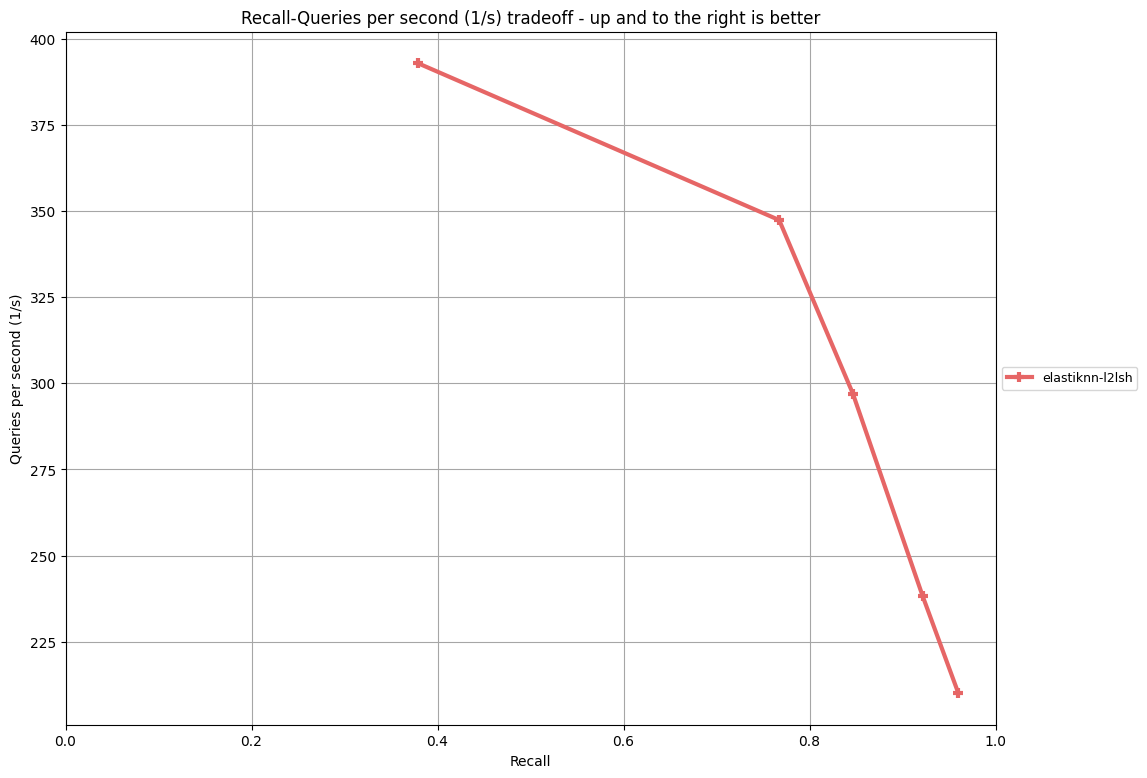
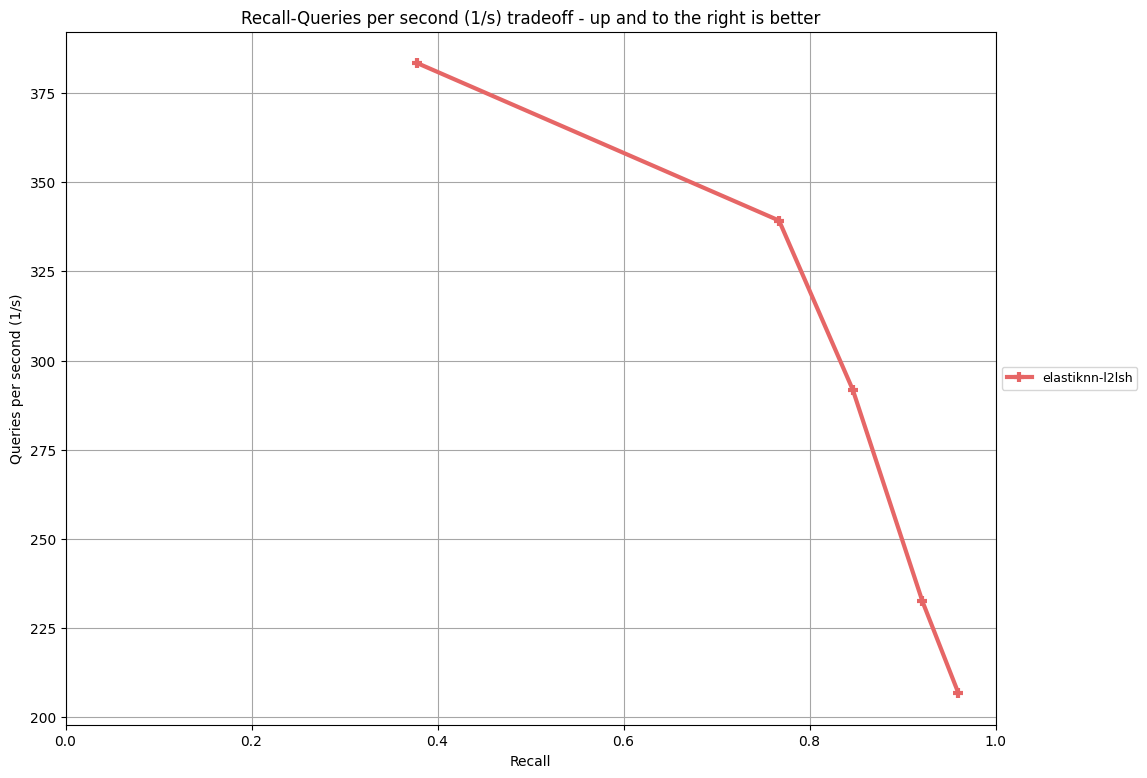
Dependencies: Update elasticsearch, ... from 8.12.2 to 8.13.0 (#673)

diff --git a/development/README.md b/development/README.md
@@ -57,14 +57,18 @@ This makes it relatively easy to run tests, generate docs, publish artifacts, et
 
 ### IDE
 
-I recommend using IntelliJ Idea to work on the Gradle projects and Pycharm to work on the client-python project.
+I recommend using IntelliJ Idea to work on the SBT projects and Pycharm to work on the client-python project.
 
-Install the IntelliJ Scala plugin, and then IntelliJ will recognize the SBT project when you open the `elastiknn` directory.
+For IntelliJ, install the IntelliJ Scala plugin and open the `elastiknn` directory in IntelliJ.
+IntelliJ should recognize the SBT project.
+You might have to specify the JDK and Scala SDK; as of April 2024, we're using JDK 21 and Scala 3.3.3.
+Since early 2023, we're also using some experimental JDK features which also require some additional settings.
+Go to Settings > Build, Execution, Deployment > Java Compiler, and add `--add-modules jdk.incubator.vector --add-exports java.base/jdk.internal.vm.vector=ALL-UNNAMED --add-exports java.base/jdk.internal.vm.annotation=ALL-UNNAMED` to the "Additional command line parameters".
+Then go to Settings > Build, Execution, Deployment > Scala Compiler, and add the same parameters in the "Additional compiler options".
 
-PyCharm can be a bit of a different story. 
-You should first create a virtual environment in `client-python/venv`.
-You can do this by running `task pyVenv`. Even if the tests fail, it will still create the virtual environment.
-Then you should setup PyCharm to use the interpreter in `client-python/venv`. 
+For Python and Pycharm, you should first create a virtual environment in `client-python/venv`.
+You can do this by running `task pyCreateVenv`.
+Then you should configure PyCharm to use the interpreter in `client-python/venv`.
 
 ### Testing
 

diff --git a/docs/pages/performance/fashion-mnist/results.md b/docs/pages/performance/fashion-mnist/results.md
@@ -1,10 +1,10 @@
 |Model|Parameters|Recall|Queries per Second|
 |---|---|---|---|
-|eknn-l2lsh|L=100 k=4 w=1024 candidates=500 probes=0|0.379|392.939|
-|eknn-l2lsh|L=100 k=4 w=1024 candidates=1000 probes=0|0.447|334.503|
-|eknn-l2lsh|L=100 k=4 w=1024 candidates=500 probes=3|0.635|308.154|
-|eknn-l2lsh|L=100 k=4 w=1024 candidates=1000 probes=3|0.717|270.359|
-|eknn-l2lsh|L=100 k=4 w=2048 candidates=500 probes=0|0.767|347.401|
-|eknn-l2lsh|L=100 k=4 w=2048 candidates=1000 probes=0|0.847|296.976|
-|eknn-l2lsh|L=100 k=4 w=2048 candidates=500 probes=3|0.922|238.273|
-|eknn-l2lsh|L=100 k=4 w=2048 candidates=1000 probes=3|0.960|210.018|
+|eknn-l2lsh|L=100 k=4 w=1024 candidates=500 probes=0|0.378|383.334|
+|eknn-l2lsh|L=100 k=4 w=1024 candidates=1000 probes=0|0.446|324.105|
+|eknn-l2lsh|L=100 k=4 w=1024 candidates=500 probes=3|0.635|304.168|
+|eknn-l2lsh|L=100 k=4 w=1024 candidates=1000 probes=3|0.716|262.273|
+|eknn-l2lsh|L=100 k=4 w=2048 candidates=500 probes=0|0.767|339.240|
+|eknn-l2lsh|L=100 k=4 w=2048 candidates=1000 probes=0|0.847|291.800|
+|eknn-l2lsh|L=100 k=4 w=2048 candidates=500 probes=3|0.921|232.473|
+|eknn-l2lsh|L=100 k=4 w=2048 candidates=1000 probes=3|0.960|206.758|

diff --git a/docs/pages/installation.md b/docs/pages/installation.md
@@ -42,8 +42,8 @@ Make a Dockerfile like below.
 The image version (`elasticsearch:A.B.C`) must match the plugin's version (e.g. `A.B.C.x/elastiknn-A.B.C.x`).
 
 ```docker
-FROM docker.elastic.co/elasticsearch/elasticsearch:8.12.2
-RUN elasticsearch-plugin install --batch https://github.com/alexklibisz/elastiknn/releases/download/8.12.2.1/elastiknn-8.12.2.1.zip
+FROM docker.elastic.co/elasticsearch/elasticsearch:8.13.0
+RUN elasticsearch-plugin install --batch https://github.com/alexklibisz/elastiknn/releases/download/8.13.0.0/elastiknn-8.13.0.0.zip
 ```
 
 Build and run the Dockerfile. If you have any issues please refer to the [official docs.](https://www.elastic.co/guide/en/elasticsearch/reference/current/docker.html)
